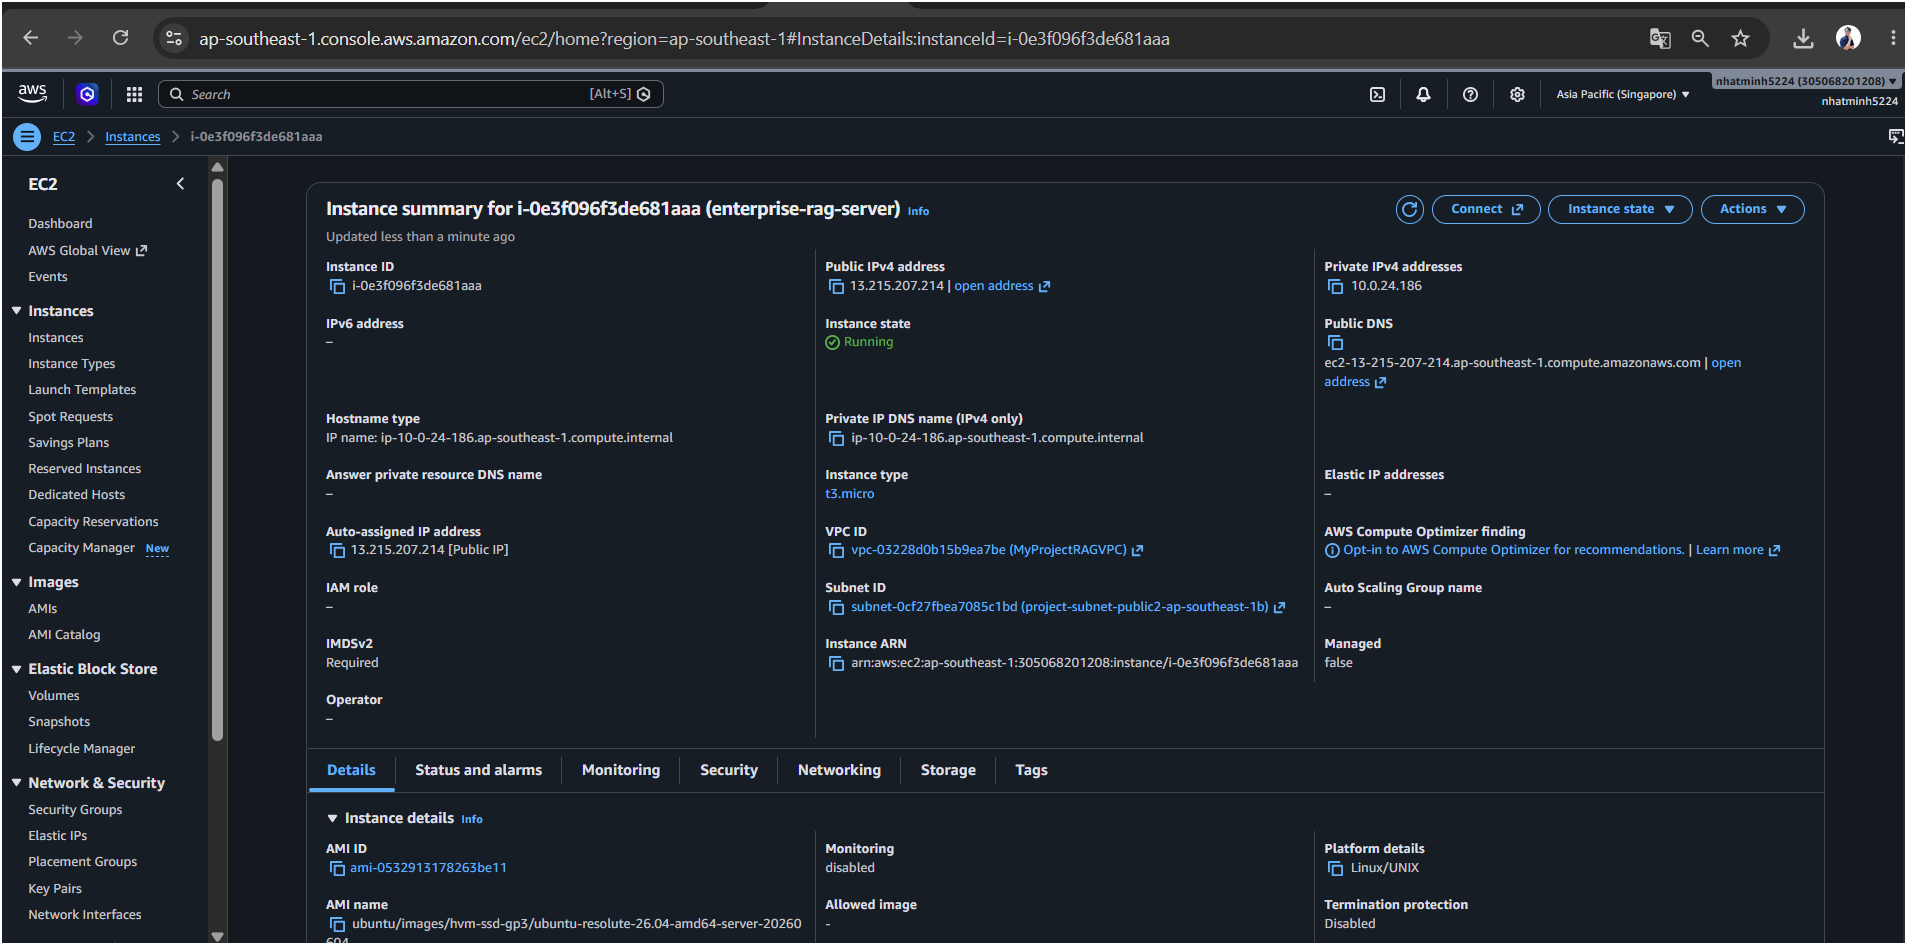
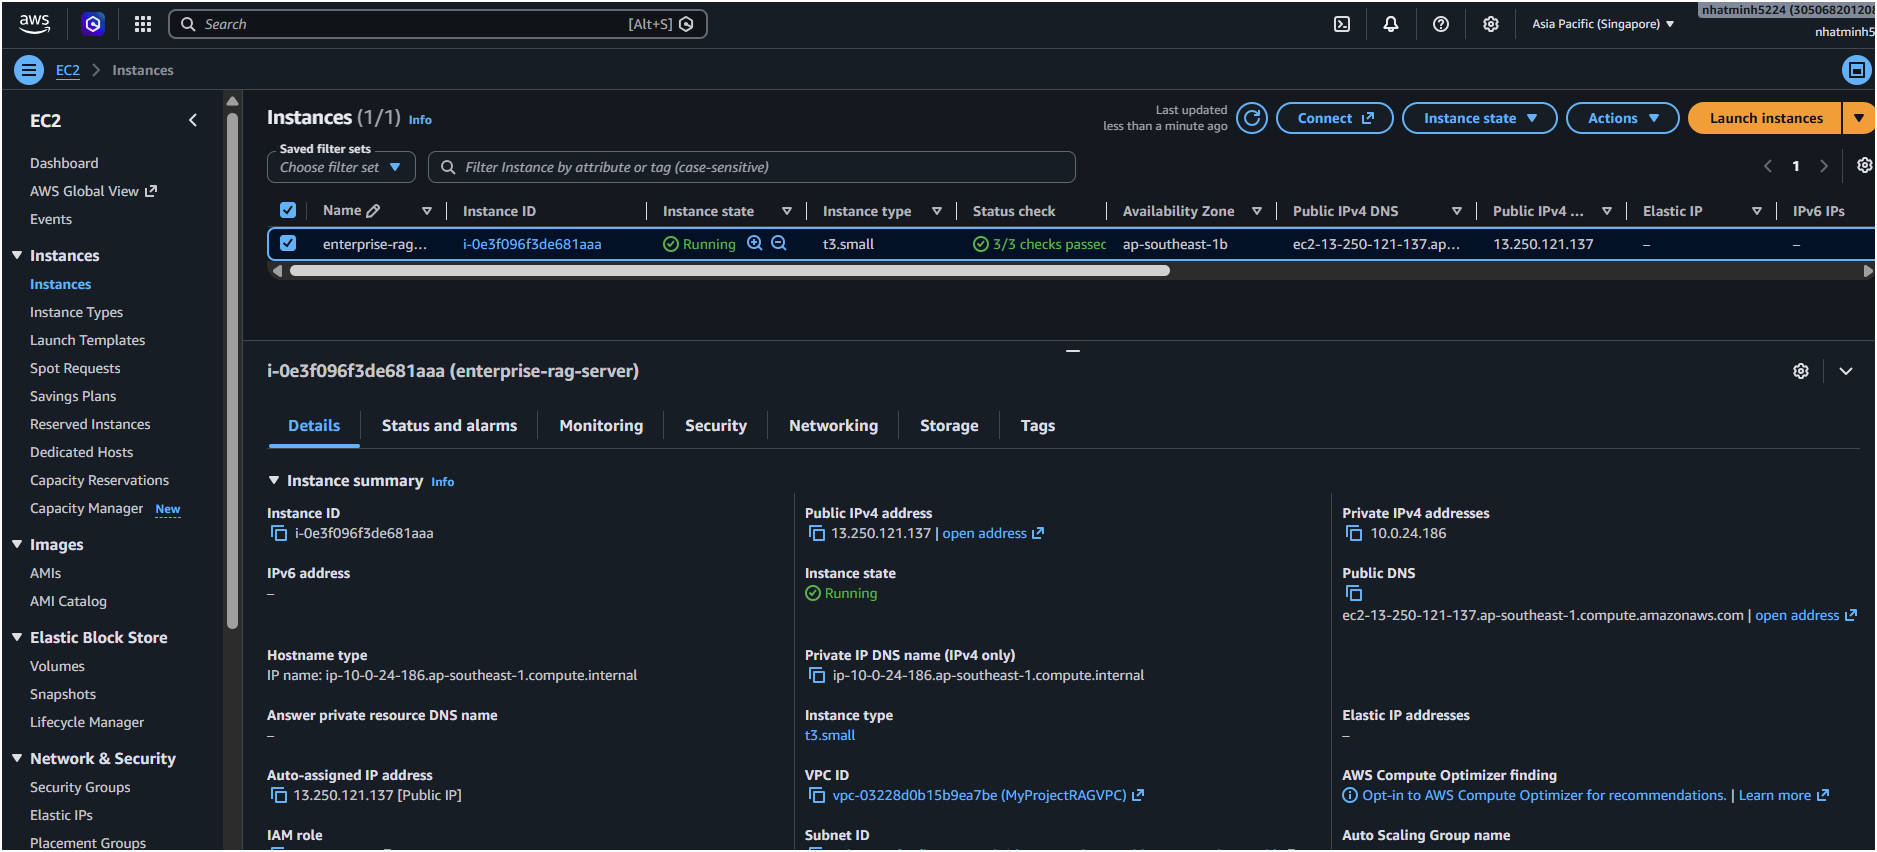
fix(workshop): update 5.4.1 EC2 instance screenshot to live t3.small 13.250.121.137 and remove obsolete image

diff --git a/content/5-Workshop/5.4-ecs-fargate-alb/_index.vi.md b/content/5-Workshop/5.4-ecs-fargate-alb/_index.vi.md
@@ -1,4 +1,4 @@
----
+---
 title: "Triển khai Máy chủ Ứng dụng & Cân bằng tải Application Load Balancer (ALB)"
 date: 2026-08-25
 weight: 4
@@ -45,49 +45,43 @@ Bài lab 5.4 hướng dẫn chi tiết quy trình:
 
 ### 2. Các bước triển khai chi tiết & Bằng chứng thực tế (Evidence)
 
-#### Bước 1: Khởi tạo Instance trên EC2 Launch Wizard
+#### Bước 1: Khởi tạo Máy chủ & Cấu hình Thiết lập Mạng (Network Settings)
 1. Truy cập **EC2 Management Console** → chọn **Instances** → bấm **Launch instances**.
 2. **Name and tags**: Đặt tên máy chủ là **`enterprise-rag-server`**.
-3. **Application and OS Images**: Chọn **Ubuntu Server 24.04 LTS (HVM), SSD Volume Type**.
-4. **Instance type**: Chọn loại instance cân bằng năng lực tính toán và bộ nhớ RAM (ví dụ: `t3.small` / 2 vCPU, 2 GB RAM).
+3. **Application and OS Images**: Chọn **Ubuntu Server 24.04 LTS (HVM), SSD Volume Type** (64-bit x86).
+4. **Instance type**: Chọn **`t3.small`** (2 vCPU, 2 GiB RAM) để đảm bảo năng lực tính toán và bộ nhớ RAM.
 5. **Key pair (login)**: Chọn cặp khóa **`Key_RAG-AWS`**.
-
-<div align="center">
-  <img src="/images/5-Workshop/5.4/5.4.1-launch-ec2-instance.png" alt="Khởi tạo máy chủ EC2 enterprise-rag-server" style="border: 1px solid #ddd; border-radius: 8px; box-shadow: 0 4px 12px rgba(0,0,0,0.1); max-width: 95%; height: auto; margin-bottom: 20px;" />
-  <p><em>Hình 5.4.1.1: Giao diện cấu hình khởi tạo máy chủ EC2 enterprise-rag-server với Ubuntu 24.04 và Key_RAG-AWS</em></p>
-</div>
-
----
-
-#### Bước 2: Cấu hình Thiết lập Mạng (Network Settings)
-1. Tại mục **Network settings**, bấm **Edit**.
-2. **VPC**: Chọn VPC của dự án **`vpc-03228d0b15b9ea7be`** (`MyProjectVPC`).
-3. **Subnet**: Chọn subnet phù hợp.
-4. **Firewall (security groups)**: Chọn **Select existing security group** → gán **`rag-ec2-sg`** (`sg-0c1e9bf71b2ec5149`).
-5. **Configure storage**: Cấu hình ổ đĩa gốc dung lượng 30 GiB gp3 General Purpose SSD.
+6. **Network settings**: Bấm **Edit**:
+   * **VPC**: Chọn VPC của dự án **`vpc-03228d0b15b9ea7be`** (`MyProjectRAGVPC`).
+   * **Subnet**: Chọn subnet công khai **`project-subnet-public2-ap-southeast-1b`**.
+   * **Auto-assign public IP**: Chọn **Enable** để máy chủ nhận địa chỉ IPv4 công khai.
+   * **Firewall (security groups)**: Chọn **Select existing security group** → gán **`rag-ec2-sg`** (`sg-0c1e9bf71b2ec5149`).
+7. **Configure storage**: Cấu hình ổ đĩa gốc dung lượng 30 GiB gp3 General Purpose SSD.
 
 <div align="center">
   <img src="/images/5-Workshop/5.4/5.4.1-ec2-network-settings.png" alt="Cấu hình Network Settings cho EC2 Instance" style="border: 1px solid #ddd; border-radius: 8px; box-shadow: 0 4px 12px rgba(0,0,0,0.1); max-width: 95%; height: auto; margin-bottom: 20px;" />
-  <p><em>Hình 5.4.1.2: Thiết lập mạng liên kết máy chủ với VPC dự án và gán Security Group rag-ec2-sg</em></p>
+  <p><em>Hình 5.4.1.1: Thiết lập mạng liên kết máy chủ với VPC dự án và gán Security Group rag-ec2-sg</em></p>
 </div>
 
 ---
 
-#### Bước 3: Xác thực trạng thái hoạt động của máy chủ
+#### Bước 2: Xác thực trạng thái hoạt động của máy chủ
 Bấm **Launch instance**. Khi quá trình khởi động hoàn tất, instance chuyển sang trạng thái **Running** với đầy đủ các định danh:
-* **Instance ID**: `i-0e3f096f3de681aaa`
+* **Instance ID**: `i-0e3f096f3de681aaa` (`enterprise-rag-server`)
 * **Instance State**: `Running`
-* **Status check**: `2/2 checks passed`
+* **Instance Type**: `t3.small`
+* **Availability Zone**: `ap-southeast-1b`
 * **IPv4 công khai**: `13.250.121.137`
+* **IPv4 nội bộ (Private IP)**: `10.0.24.186`
 
 <div align="center">
   <img src="/images/5-Workshop/5.4/5.4.1-ec2-instances-list.png" alt="Danh sách EC2 Instances xác nhận enterprise-rag-server đang chạy" style="border: 1px solid #ddd; border-radius: 8px; box-shadow: 0 4px 12px rgba(0,0,0,0.1); max-width: 95%; height: auto; margin-bottom: 20px;" />
-  <p><em>Hình 5.4.1.3: Bảng danh sách EC2 Instances xác thực enterprise-rag-server (i-0e3f096f3de681aaa) ở trạng thái Running</em></p>
+  <p><em>Hình 5.4.1.2: Bảng danh sách EC2 Instances xác thực enterprise-rag-server (i-0e3f096f3de681aaa) ở trạng thái Running với IP 13.250.121.137</em></p>
 </div>
 
 ---
 
-#### Bước 4: Kiểm tra kết nối quản trị SSH Terminal
+#### Bước 3: Kiểm tra kết nối quản trị SSH Terminal
 Mở terminal trên máy cá nhân và thực thi lệnh SSH xác thực qua private key:
 
 ```bash

diff --git a/content/5-Workshop/5.4-ecs-fargate-alb/_index.md b/content/5-Workshop/5.4-ecs-fargate-alb/_index.md
@@ -1,4 +1,4 @@
----
+---
 title: "Deploying Application Server & Application Load Balancer (ALB)"
 date: 2026-08-25
 weight: 4
@@ -45,49 +45,43 @@ Lab 5.4 provides a complete deployment guide:
 
 ### 2. Step-by-Step Implementation & Live Evidence
 
-#### Step 1: Launch Instance in EC2 Launch Wizard
-1. Open **EC2 Console** → **Instances** → Click **Launch instances**.
+#### Step 1: Launch Instance & Configure Network Settings
+1. Open **EC2 Management Console** → **Instances** → Click **Launch instances**.
 2. **Name and tags**: Set name to **`enterprise-rag-server`**.
-3. **Application and OS Images**: Select **Ubuntu Server 24.04 LTS (HVM), SSD Volume Type**.
-4. **Instance type**: Select a compute-balanced instance (e.g., `t3.small` / 2 vCPU, 2 GB RAM).
+3. **Application and OS Images**: Select **Ubuntu Server 24.04 LTS (HVM), SSD Volume Type** (64-bit x86).
+4. **Instance type**: Select **`t3.small`** (2 vCPU, 2 GiB RAM) to balance computational power and memory.
 5. **Key pair (login)**: Select **`Key_RAG-AWS`**.
-
-<div align="center">
-  <img src="/images/5-Workshop/5.4/5.4.1-launch-ec2-instance.png" alt="Launch EC2 Instance enterprise-rag-server" style="border: 1px solid #ddd; border-radius: 8px; box-shadow: 0 4px 12px rgba(0,0,0,0.1); max-width: 95%; height: auto; margin-bottom: 20px;" />
-  <p><em>Figure 5.4.1.1: Launching EC2 instance enterprise-rag-server with Ubuntu 24.04 and Key_RAG-AWS</em></p>
-</div>
-
----
-
-#### Step 2: Configure Network Settings
-1. Under **Network settings**, click **Edit**.
-2. **VPC**: Select project VPC **`vpc-03228d0b15b9ea7be`** (`MyProjectVPC`).
-3. **Subnet**: Select designated project subnet.
-4. **Firewall (security groups)**: Choose **Select existing security group** → assign **`rag-ec2-sg`** (`sg-0c1e9bf71b2ec5149`).
-5. **Configure storage**: Allocate 30 GiB gp3 General Purpose SSD root volume.
+6. **Network settings**: Click **Edit**:
+   * **VPC**: Select project VPC **`vpc-03228d0b15b9ea7be`** (`MyProjectRAGVPC`).
+   * **Subnet**: Select public subnet **`project-subnet-public2-ap-southeast-1b`**.
+   * **Auto-assign public IP**: Set to **Enable** to receive a reachable public IPv4 address.
+   * **Firewall (security groups)**: Choose **Select existing security group** → assign **`rag-ec2-sg`** (`sg-0c1e9bf71b2ec5149`).
+7. **Configure storage**: Allocate 30 GiB gp3 General Purpose SSD root volume.
 
 <div align="center">
   <img src="/images/5-Workshop/5.4/5.4.1-ec2-network-settings.png" alt="EC2 Network Settings Configuration" style="border: 1px solid #ddd; border-radius: 8px; box-shadow: 0 4px 12px rgba(0,0,0,0.1); max-width: 95%; height: auto; margin-bottom: 20px;" />
-  <p><em>Figure 5.4.1.2: Binding EC2 instance to project VPC and applying rag-ec2-sg firewall rules</em></p>
+  <p><em>Figure 5.4.1.1: Binding EC2 instance to project VPC and applying rag-ec2-sg firewall rules</em></p>
 </div>
 
 ---
 
-#### Step 3: Verify Instance Operational State
+#### Step 2: Verify Instance Operational State
 Click **Launch instance**. Once booted, the server transitions to the **Running** state with active health checks:
-* **Instance ID**: `i-0e3f096f3de681aaa`
+* **Instance ID**: `i-0e3f096f3de681aaa` (`enterprise-rag-server`)
 * **Instance State**: `Running`
-* **Status check**: `2/2 checks passed`
+* **Instance Type**: `t3.small`
+* **Availability Zone**: `ap-southeast-1b`
 * **Public IPv4**: `13.250.121.137`
+* **Private IPv4**: `10.0.24.186`
 
 <div align="center">
   <img src="/images/5-Workshop/5.4/5.4.1-ec2-instances-list.png" alt="EC2 Instances List" style="border: 1px solid #ddd; border-radius: 8px; box-shadow: 0 4px 12px rgba(0,0,0,0.1); max-width: 95%; height: auto; margin-bottom: 20px;" />
-  <p><em>Figure 5.4.1.3: EC2 Instances dashboard confirming enterprise-rag-server running and available</em></p>
+  <p><em>Figure 5.4.1.2: EC2 Instances dashboard confirming enterprise-rag-server (i-0e3f096f3de681aaa) running with public IP 13.250.121.137</em></p>
 </div>
 
 ---
 
-#### Step 4: Verify Administrative SSH Access
+#### Step 3: Verify Administrative SSH Access
 Open a local terminal and authenticate via the private SSH key:
 
 ```bash
